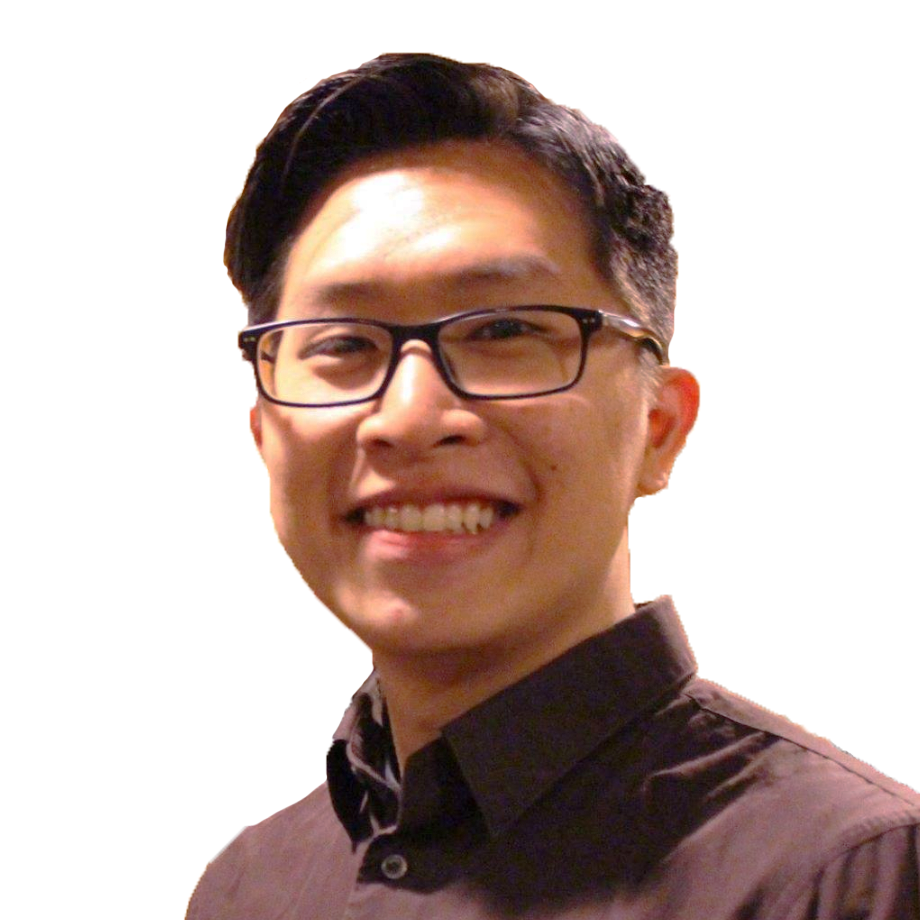
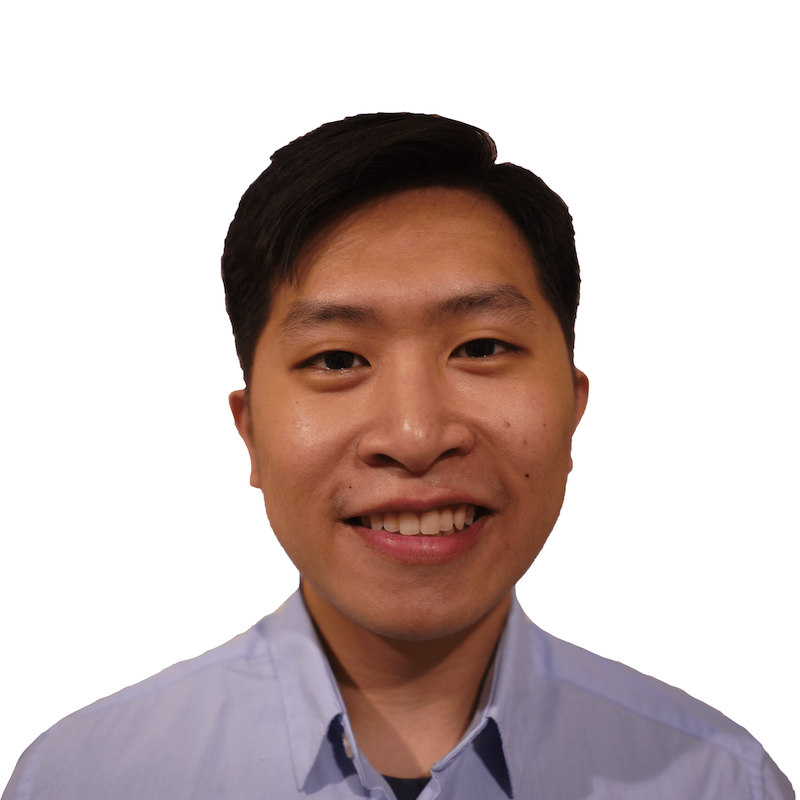
Wayfair

diff --git a/index.html b/index.html
@@ -7,6 +7,7 @@
 <!--<![endif]-->
 	<head>
         <meta content="width=device-width, initial-scale=1.0" name="viewport"></meta>
+        <meta charset="utf-8">
 
 		<title>Kelvien Hidayat</title>
         <meta name="description" content="Interactive Bio / Portfolio">
@@ -486,15 +487,6 @@
                                 <p class="text-right event-link">LINK : <a target="_blank" href="http://www.indonesian.stuorg.iastate.edu">PERMIAS v.2</a></p>
                             </div>
                         </div>
-                        <div class="event project" data-event="love">
-                            <div class="event-title">
-                                <h4>2015</h4>
-                            </div>
-                            <div class="event-content">
-                                <h4 class="event-content-title">My soul knows its savior</h4>
-                                <p>&#x201C The Lord is my shepherd, I lack nothing &#x201D - Psalms 23:1</p>
-                            </div>
-                        </div>
                         <div class="event project">
                             <div class="event-title">
                                 <h4>January 2015</h4>
@@ -625,6 +617,20 @@
                                     <div class="tag">CSS</div>
                                     <div class="tag">Javascript</div>
                                     <div class="tag">Canvas</div>
+                                </div>
+                            </div>
+                        </div>
+                        <div class="event project" data-event='wayfair'>
+                            <div class="event-title">
+                                <h4>October 2018</h4>
+                            </div>
+                            <div class="event-content">
+                                <h4 class="event-content-title">JOB : Wayfair</h4>
+                                <p>Supply Chain Engineering 📦 – Transportation 🚚 – Final Mile / Customer Experience team</p>
+                                <div class="project-tags"><b>Technology : </b>
+                                    <div class="tag">PHP</div>
+                                    <div class="tag">SQL</div>
+                                    <div class="tag">Javascript</div>
                                 </div>
                             </div>
                         </div>
